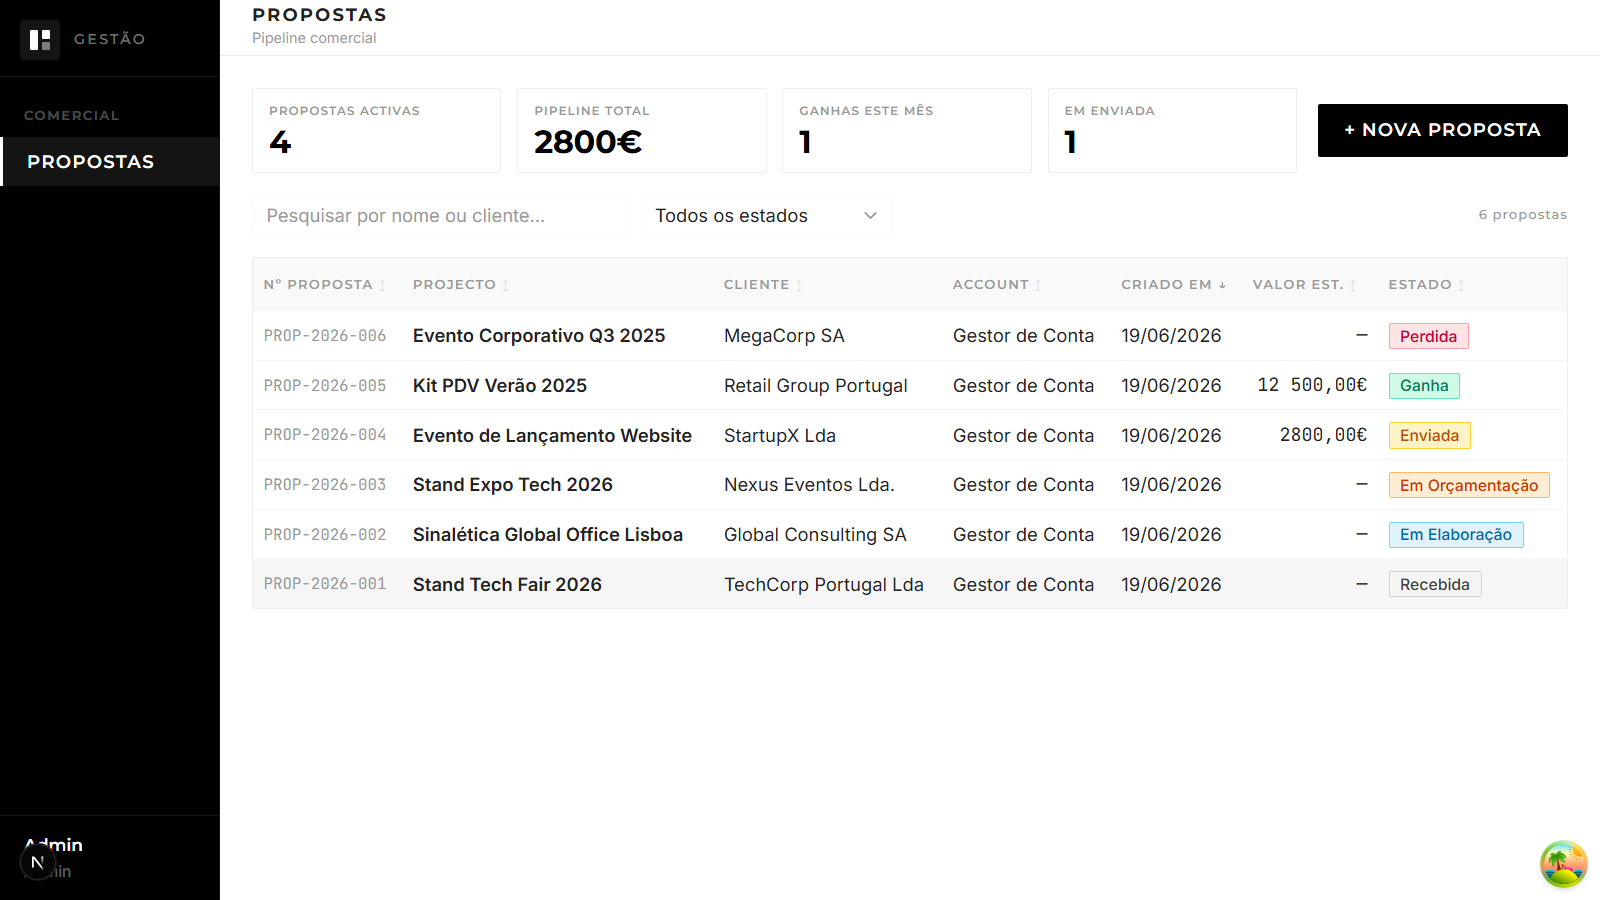
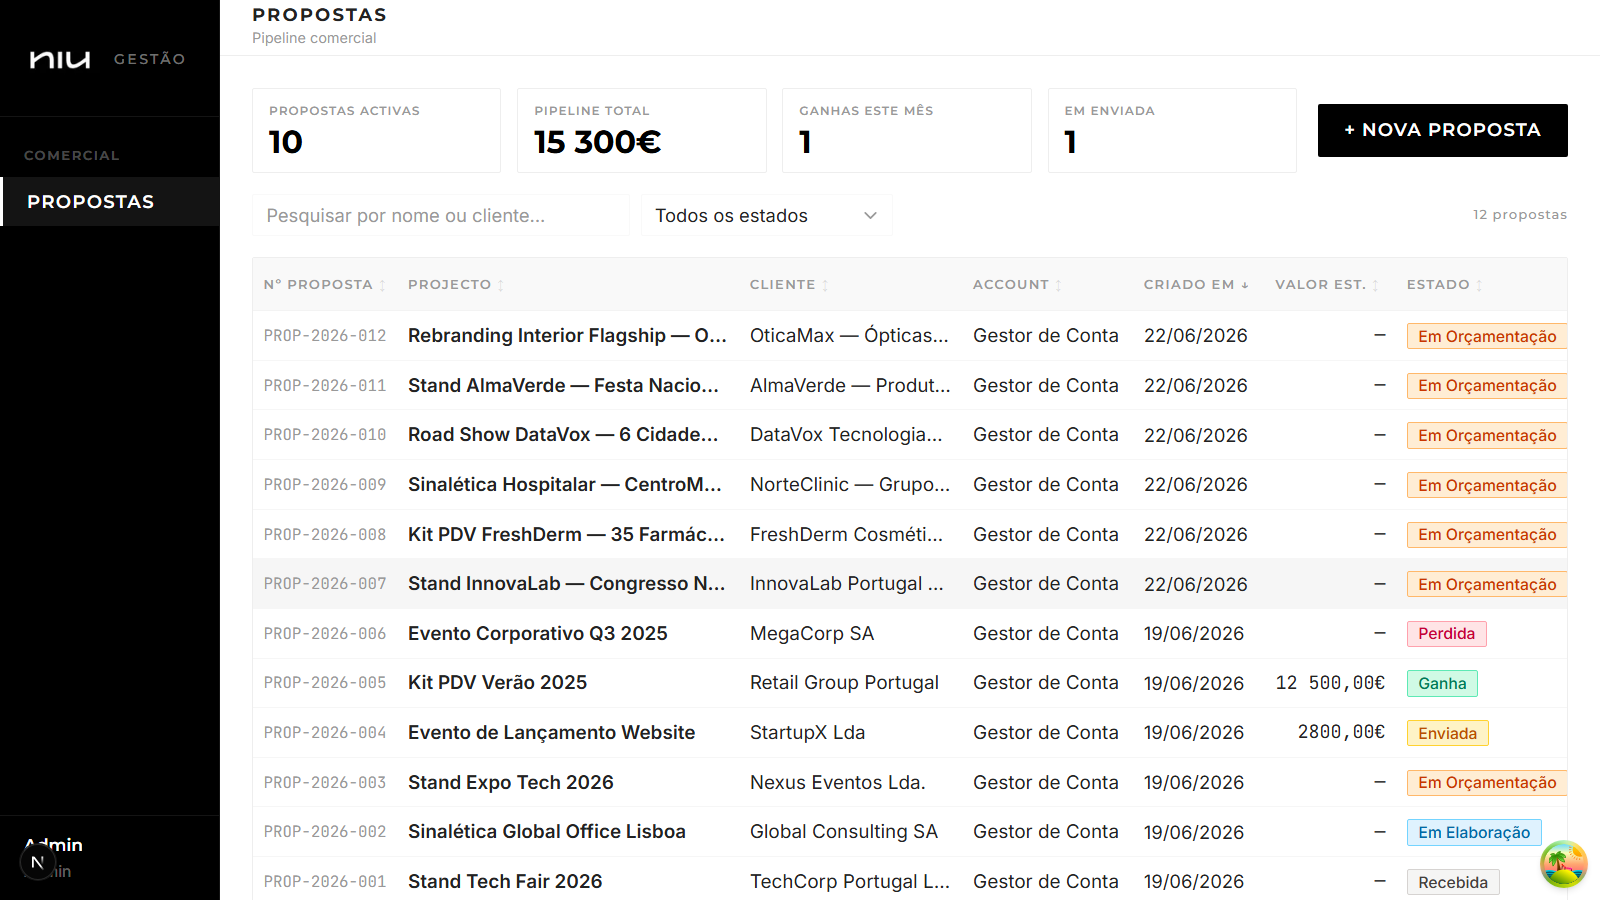
Fix table overflow and pipeline KPI
- ProposalTable: table-layout fixed, per-column widths, ellipsis on long
  text cells — all 7 columns fit at 1600px without horizontal scroll
- ProposalKPIs: pipeline total now includes Ganha (confirmed revenue),
  excludes only Perdida — was showing only active proposals
- seed-test-proposals: fix rt() direction type (string → 'ltr' as const)

diff --git a/src/components/proposals/ProposalTable.tsx b/src/components/proposals/ProposalTable.tsx
@@ -244,8 +244,17 @@ export function ProposalTable({ currentUser, accountUsers }: Props) {
         resultCount={filtered.length}
       />
 
-      <div className="overflow-hidden" style={{ border: '1px solid #eeeeee', borderRadius: 2 }}>
-        <Table>
+      <div style={{ border: '1px solid #eeeeee', borderRadius: 2, overflowX: 'auto' }}>
+        <Table style={{ tableLayout: 'fixed', width: '100%', minWidth: 700 }}>
+          <colgroup>
+            <col style={{ width: '11%' }} />
+            <col style={{ width: '26%' }} />
+            <col style={{ width: '17%' }} />
+            <col style={{ width: '13%' }} />
+            <col style={{ width: '10%' }} />
+            <col style={{ width: '10%' }} />
+            <col style={{ width: '13%' }} />
+          </colgroup>
           <TableHeader>
             <TableRow className="border-border/60">
               {(
@@ -300,14 +309,14 @@ export function ProposalTable({ currentUser, accountUsers }: Props) {
                   className="cursor-pointer transition-colors hover:bg-foreground/[0.04] border-border/50"
                   onClick={() => setSelectedId(String(p.id))}
                 >
-                  <TableCell className="text-xs text-[#999999]" style={{ fontFamily: "'JetBrains Mono', monospace" }}>
+                  <TableCell className="text-xs text-[#999999]" style={{ fontFamily: "'JetBrains Mono', monospace", whiteSpace: 'nowrap', overflow: 'hidden', textOverflow: 'ellipsis' }}>
                     {p.numero ?? '—'}
                   </TableCell>
-                  <TableCell className="font-semibold">{p.nomeProjeto}</TableCell>
-                  <TableCell>{p.cliente}</TableCell>
-                  <TableCell>{getAccountName(p)}</TableCell>
-                  <TableCell className="text-sm">{formatDate(p.createdAt)}</TableCell>
-                  <TableCell className="text-right font-mono text-sm">
+                  <TableCell className="font-semibold" style={{ overflow: 'hidden', textOverflow: 'ellipsis', whiteSpace: 'nowrap', fontSize: '0.9rem' }}>{p.nomeProjeto}</TableCell>
+                  <TableCell style={{ overflow: 'hidden', textOverflow: 'ellipsis', whiteSpace: 'nowrap', fontSize: '0.9rem' }}>{p.cliente}</TableCell>
+                  <TableCell style={{ overflow: 'hidden', textOverflow: 'ellipsis', whiteSpace: 'nowrap', fontSize: '0.9rem' }}>{getAccountName(p)}</TableCell>
+                  <TableCell style={{ fontSize: '0.875rem', whiteSpace: 'nowrap' }}>{formatDate(p.createdAt)}</TableCell>
+                  <TableCell className="text-right font-mono" style={{ fontSize: '0.875rem', whiteSpace: 'nowrap' }}>
                     {typeof p.valorVendaFinal === 'number'
                       ? `${p.valorVendaFinal.toLocaleString('pt-PT', { minimumFractionDigits: 2 })}€`
                       : '—'}

diff --git a/scripts/seed-test-proposals.ts b/scripts/seed-test-proposals.ts
@@ -27,18 +27,18 @@ const ts = (offsetDays = 0) =>
 function rt(...paragraphs: string[]) {
   return {
     root: {
-      type: 'root',
-      format: '',
+      type: 'root' as const,
+      format: '' as const,
       indent: 0,
       version: 1,
-      direction: 'ltr',
+      direction: 'ltr' as const,
       children: paragraphs.map((text) => ({
-        type: 'paragraph',
-        format: '',
+        type: 'paragraph' as const,
+        format: '' as const,
         indent: 0,
         version: 1,
-        direction: 'ltr',
-        children: [{ type: 'text', format: 0, version: 1, detail: 0, mode: 'normal', style: '', text }],
+        direction: 'ltr' as const,
+        children: [{ type: 'text', format: 0, version: 1, detail: 0, mode: 'normal' as const, style: '', text }],
       })),
     },
   }

diff --git a/src/components/proposals/ProposalKPIs.tsx b/src/components/proposals/ProposalKPIs.tsx
@@ -12,10 +12,10 @@ export function ProposalKPIs({ proposals }: Props) {
 
   const active = proposals.filter((p) => !['Ganha', 'Perdida'].includes(p.estado ?? ''))
 
-  const pipeline = active.reduce(
-    (s, p) => s + (typeof p.valorVendaFinal === 'number' ? p.valorVendaFinal : 0),
-    0,
-  )
+  // Pipeline includes active proposals + Ganha (confirmed revenue); excludes Perdida
+  const pipeline = proposals
+    .filter((p) => p.estado !== 'Perdida')
+    .reduce((s, p) => s + (typeof p.valorVendaFinal === 'number' ? p.valorVendaFinal : 0), 0)
 
   const wonMonth = proposals.filter(
     (p) => p.estado === 'Ganha' && p.updatedAt >= startOfMonth,
